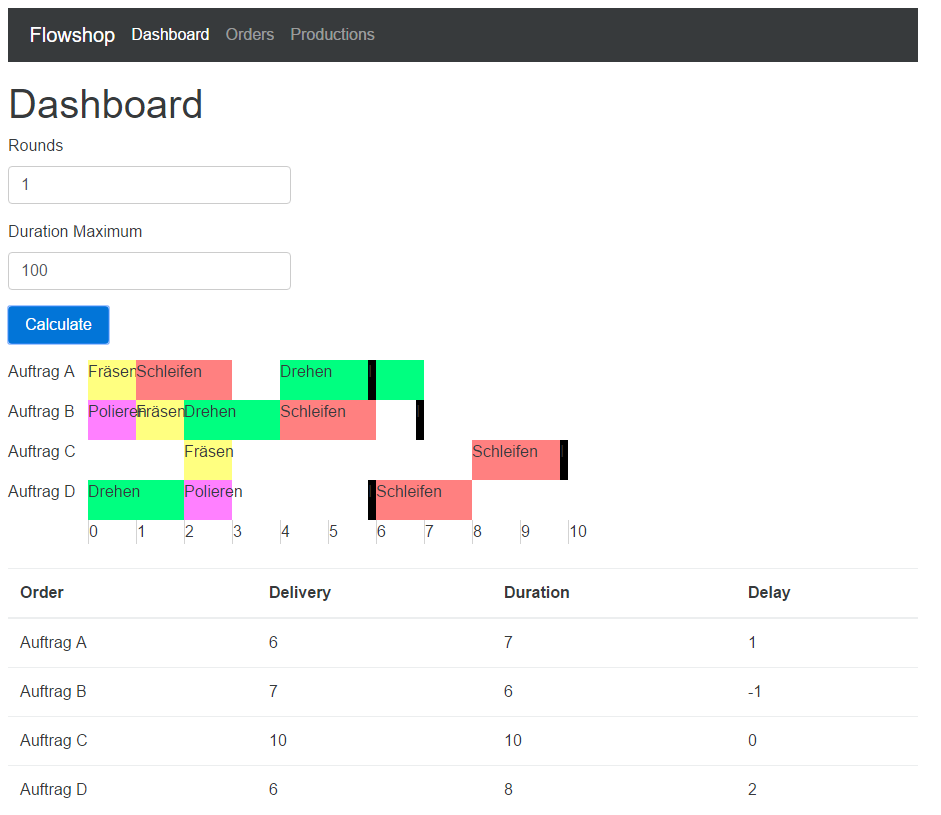
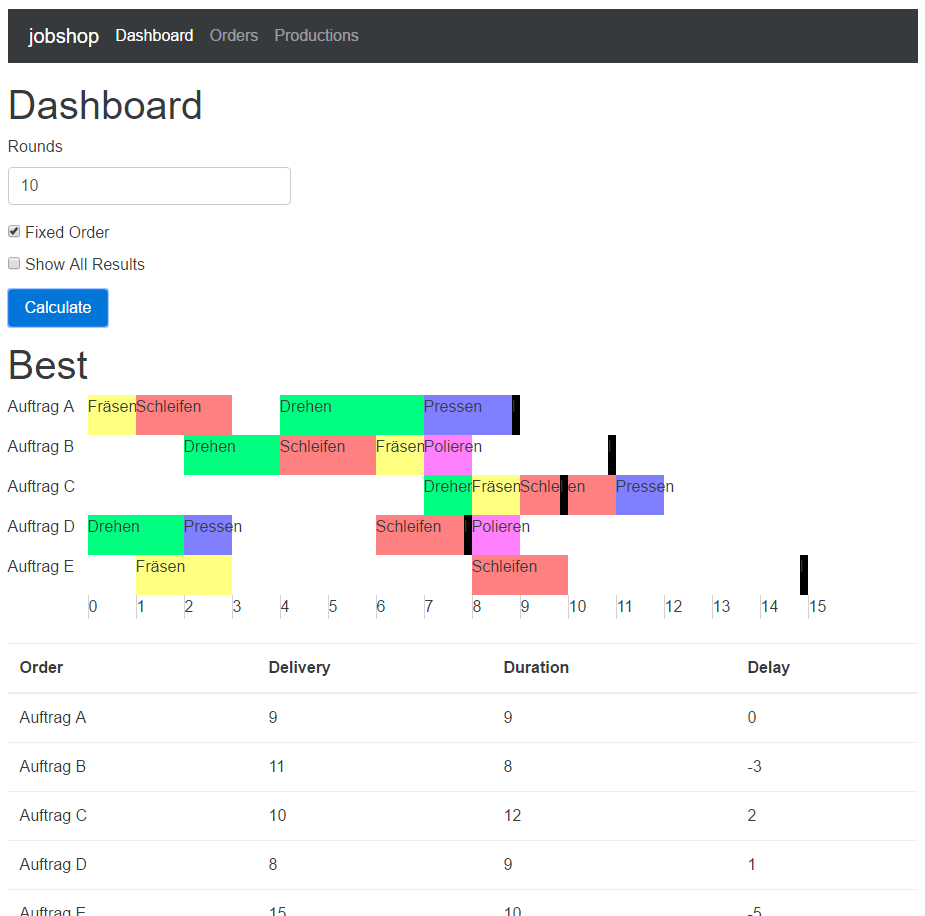
ma men

diff --git a/imports/ui/App.jsx b/imports/ui/App.jsx
@@ -4,7 +4,7 @@ import { createContainer } from 'meteor/react-meteor-data';
 import ReactDOM from 'react-dom';
 import { Orders } from '../api/orders.js';
 import { Productions } from '../api/productions.js';
-import { Alert, Form, FormGroup, Input, Label, Button, GridRow, GridColumn, Table, Checkbox } from './bootstrap/index.jsx';
+import { Alert, Form, FormGroup, Input, Label, Button, GridRow, GridColumn, Table, Checkbox, PageHeader } from './bootstrap/index.jsx';
 import Chart from './Chart.jsx';
 import * as Notification from 'notie';
 
@@ -12,15 +12,23 @@ export default class App extends Component {
 
   constructor(props) {
     super(props);
-    this.state = {datasets: []};
+    this.state = {
+      datasets: [],
+      fixedOrder: true,
+      showResults: false,
+    };
+  }
+
+  updateState(key, value, event){
+    var state = this.state;
+    state[key] = value
+    this.setState(state);
   }
 
   calculate(){
 
     // get form input
     var rounds = ReactDOM.findDOMNode(this.refs.rounds).value;
-    var fixOrder = ReactDOM.findDOMNode(this.refs.fixOrder);
-    fixOrder = true
 
     // reset datasets
     this.setState({
@@ -104,59 +112,38 @@ export default class App extends Component {
         });
 
         // sort the list by start
-        conflictTasks = _.sortBy(conflictTasks, (o) => {return o.start});
+        conflictTasks = _.sortBy(conflictTasks, (o) => {return o.end});
         // console.log("conflictTasks", conflictTasks);
 
         // look for a gap between end and start of all conflict
-        var start = 0;
-        var beforeTask = {};
-        var afterTask = {};
+        task.start = 0;
+        task.end = (task.start + task.duration);
         _.each(conflictTasks, (conflictTask) => {
 
           // get minimal end
-          var end = (start + task.duration);
+          task.end = (task.start + task.duration);
 
-          // console.log(start, end, conflictTask)
-          // console.log("check if before", (conflictTask.orderName === task.orderName) && fixOrder )
-          // console.log("check if in outside", (conflictTask.start >= start) && (end >= conflictTask.end) )
-          // console.log("check if in beteween", (conflictTask.start <= start) && (end <= conflictTask.end) )
-          // console.log("check if end in between", (end <= conflictTask.end) && (conflictTask.start < end) )
-          // console.log("check if start in between", (conflictTask.start <= start) && (start <= conflictTask.end) )
+          // console.log("before update task", task.orderName, task.productionName, task.start, task.end);
+          // console.log("conflict task", conflictTask.orderName, conflictTask.productionName, conflictTask.start, conflictTask.end);
+          // console.log("check for order task", (conflictTask.orderName === task.orderName) && this.state.fixedOrder)
+          // console.log("check if wrapping", (conflictTask.start >= task.start) && (task.end >= conflictTask.end) )
+          // console.log("check if in between", (conflictTask.start <= task.start) && (task.end <= conflictTask.end) )
+          // console.log("check if end in between", (task.end <= conflictTask.end) && (conflictTask.start < task.end) )
+          // console.log("check if start in between", (conflictTask.start <= task.start) && (task.start <= conflictTask.end) )
 
-          // if end before conflict task start then save gap
+          // if task is in conflict move it after the conflict task
           if(
-            ((conflictTask.orderName === task.orderName) && fixOrder) ||
-            ((conflictTask.start >= start) && (end >= conflictTask.end)) ||
-            ((conflictTask.start <= start) && (end <= conflictTask.end)) ||
-            ((end <= conflictTask.end) && (conflictTask.start < end)) ||
-            ((conflictTask.start <= start) && (start <= conflictTask.end))
+            ((conflictTask.orderName === task.orderName) && this.state.fixedOrder) ||
+            ((conflictTask.start >= task.start) && (task.end >= conflictTask.end)) ||
+            ((conflictTask.start <= task.start) && (task.end <= conflictTask.end)) ||
+            ((task.end <= conflictTask.end) && (conflictTask.start < task.end)) ||
+            ((conflictTask.start <= task.start) && (task.start <= conflictTask.end))
           ){
-            afterTask = conflictTask;
-            beforeTask = {};
-            start = conflictTask.end;
-          // else reset gap and move start and save gap
-          }else{
-            afterTask = {};
-            beforeTask = {
-              start: start,
-              end: end,
-            }
+            task.start = conflictTask.end;
+            task.end = (task.start + task.duration);
+            // console.log("updated task", task.orderName, task.productionName, task.start, task.end);
           }
         });
-
-        // set schedule
-        if(!_.isEmpty(beforeTask)){
-          // console.log("beforeTask", beforeTask.orderName, beforeTask.productionName, beforeTask.start, beforeTask.end);
-          task.start = beforeTask.start;
-          task.end = beforeTask.end;
-        }else if(!_.isEmpty(afterTask)){
-          // console.log("afterTask", afterTask.orderName, afterTask.productionName, afterTask.start, afterTask.end);
-          task.start = afterTask.end;
-          task.end = task.start + task.duration;
-        }else{
-          task.start = 0;
-          task.end = task.start + task.duration;
-        }
         // console.log("FINAL task", task.orderName, task.productionName, task.start, task.end);
 
         // add it to scheduled tasks
@@ -196,7 +183,7 @@ export default class App extends Component {
       var data = _.sortBy(data, (task) => {return task.labelY});
 
       // add delivery due dates to dataset
-      deadline = _.groupBy(orders.map((order) => {
+      var deadlines = _.groupBy(orders.map((order) => {
 
         // get duration for each order
         var duration = _.first(_.sortBy(
@@ -214,14 +201,26 @@ export default class App extends Component {
 
       }), (g) => {return g.labelY});
 
+      // foreach deadline add sum of delay
+      var delay = 0;
+      _.map(deadlines, (value, key) => {
+        if(value[0].delay > 0){
+          delay += value[0].delay;
+        }
+      });
+
       // groupBy label
       data = _.groupBy(data, (g) => {return g.labelY});
+
+      // get filtered datasets
+      var filteredData = {};
 
       // update dataset state
       datasets.push({
         duration: maxDuration,
+        delay: delay,
         data: data,
-        deadline: deadline
+        deadline: deadlines
       });
       this.setState({
         datasets: datasets
@@ -229,15 +228,6 @@ export default class App extends Component {
 
     // end of a round
     }
-
-    // Meteor.call("calculate", rounds, (err, res) => {
-    //   if(err){
-    //     console.log(err)
-    //     Notification.alert(3, err.error, 2.5);
-    //   }else{
-    //     console.log(res);
-    //   }
-    // })
   }
 
   // render a table for every charts
@@ -251,16 +241,51 @@ export default class App extends Component {
 
   // render charts foreach dataset
   renderCharts(datasets){
-    return datasets.map((dataset) => {
-      return (
-        <div>
-          <Chart data={dataset} factor="3" />
-          {this.renderChartTable(dataset)}
-        </div>);
-    })
+
+    if(datasets.length == 0){return (<p></p>)}
+
+    // get filtered tables
+    var filteredDatasets = {
+      "Best": _.first(_.sortBy(datasets, (s) => {return s.delay})),
+      "Worst":  _.first(_.sortBy(datasets, (s) => {return -s.delay})),
+      "First": _.first(datasets),
+      "Last": _.last(datasets),
+    };
+
+    var allResultsHeader, allResults
+    if(this.state.showResults){
+      var allResultsHeader = <PageHeader tag="h1">All Results</PageHeader>;
+      var allResults = datasets.map((dataset) => {
+        return (
+          <div>
+            <Chart data={dataset} factor="3" />
+            {this.renderChartTable(dataset)}
+          </div>
+        );
+      });
+    }
+
+    // show all results
+    return(
+      <div>
+        {_.map(filteredDatasets, (value, key) => {
+          return (
+            <div>
+              <PageHeader tag="h1">{key}</PageHeader>
+              <Chart data={value} factor="3" />
+              {this.renderChartTable(value)}
+              <p></p>
+            </div>
+          );
+        })}
+        {allResultsHeader}
+        {allResults}
+      </div>
+    )
   }
 
   render() {
+
     return (
       <div className="dashboard">
         <h1>Dashboard</h1>
@@ -271,20 +296,18 @@ export default class App extends Component {
           <FormGroup>
             <Label>Rounds</Label>
             <Input
-            ref="rounds" type="number" defaultValue="1" />
+            ref="rounds" type="number" defaultValue="10" />
           </FormGroup>
-          <FormGroup>
-            <Checkbox
-            label="Fix Order"
-            ref="fixOrder"
-            defaultValue="true" />
-          </FormGroup>
-          <FormGroup>
-            <Checkbox
-            label="Show All Results"
-            ref="showResults"
-            defaultValue="true" />
-          </FormGroup>
+          <Checkbox
+          label="Fixed Order"
+          name="fixedOrder"
+          defaultChecked={true}
+          onClick={this.updateState.bind(this)} />
+          <Checkbox
+          label="Show All Results"
+          name="showResults"
+          defaultChecked={false}
+          onClick={this.updateState.bind(this)} />
         </Form>
         <p><Button style="primary" onClick={this.calculate.bind(this)}>Calculate</Button></p>
 

diff --git a/imports/ui/bootstrap/Checkbox.jsx b/imports/ui/bootstrap/Checkbox.jsx
@@ -3,32 +3,19 @@ import Label from './Label.jsx';
 
 export default class Checkbox extends React.Component {
 
-  constructor(props){
-    super(props);
-    this.state={
-      checked: Boolean(props.defaultValue)
-    }
-  }
-
-  handleClick(event) {
-    this.setState({checked: event.target.checked});
-    React.findDOMNode(this).value = event.target.value
+  handleClick(event){
+    this.props.onClick(this.props.name, event.target.checked, event);
   }
 
   render() {
-    console.log(this.state, this.props)
     return(
       <div className="checkbox">
       <Label>
-
         <input
-        ref={this.props.ref}
         type="checkbox"
         name={this.props.name}
-        checked={this.state.checked}
-        onClick={this.handleClick.bind(this)}
-        defaultValue={this.state.checked} />
-
+        defaultChecked={this.props.defaultChecked}
+        onClick={this.handleClick.bind(this)} />
         {this.props.label ? " " + this.props.label : ""}
       </Label>
       </div>

diff --git a/imports/ui/bootstrap/Input.jsx b/imports/ui/bootstrap/Input.jsx
@@ -11,7 +11,6 @@ export default class Input extends React.Component {
   render(){
     return (
       <input
-      ref={ this.props.ref }
       name={ this.props.name }
       type={ this.props.type }
       className={ this.props.type === "color" ? "form-control input-color" : "form-control" }

diff --git a/server/main.js b/server/main.js
@@ -7,3 +7,12 @@ Meteor.methods({
     return null;
   }
 });
+
+// Meteor.call("calculate", rounds, (err, res) => {
+//   if(err){
+//     console.log(err)
+//     Notification.alert(3, err.error, 2.5);
+//   }else{
+//     console.log(res);
+//   }
+// })

diff --git a/README.md b/README.md
@@ -1,17 +1,8 @@
-Meteor app to solve the flowshop problem with tabu search.
+Meteor app to solve the jobshop problem with tabu search.
 
-![](https://raw.githubusercontent.com/janikvonrotz/flowshop/master/Screenshot.png)
+![](https://raw.githubusercontent.com/janikvonrotz/jobshop/master/screenshot.png)
 
 # [Demo](https://jobshopdemo.herokuapp.com/)
-
-# Todo
-
-* Show filtered result: First, Best, Wort (ranking by sum of delay)
-* Add button to display all of the results
-
-# Done
-
-* Fix order! As long  there is a conflictTask with same order move!
 
 # Resources
 
